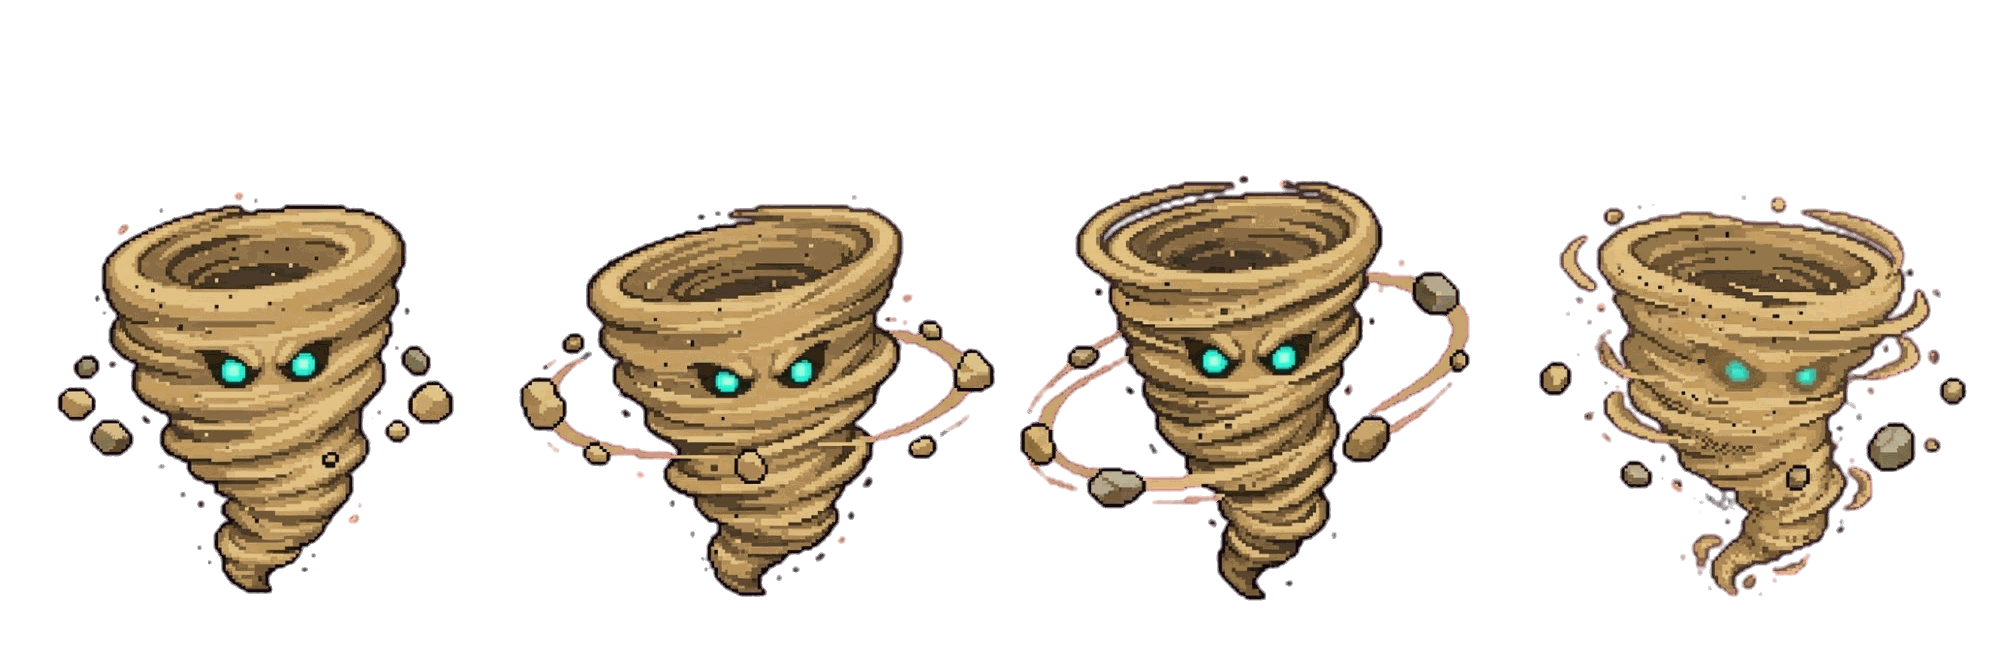
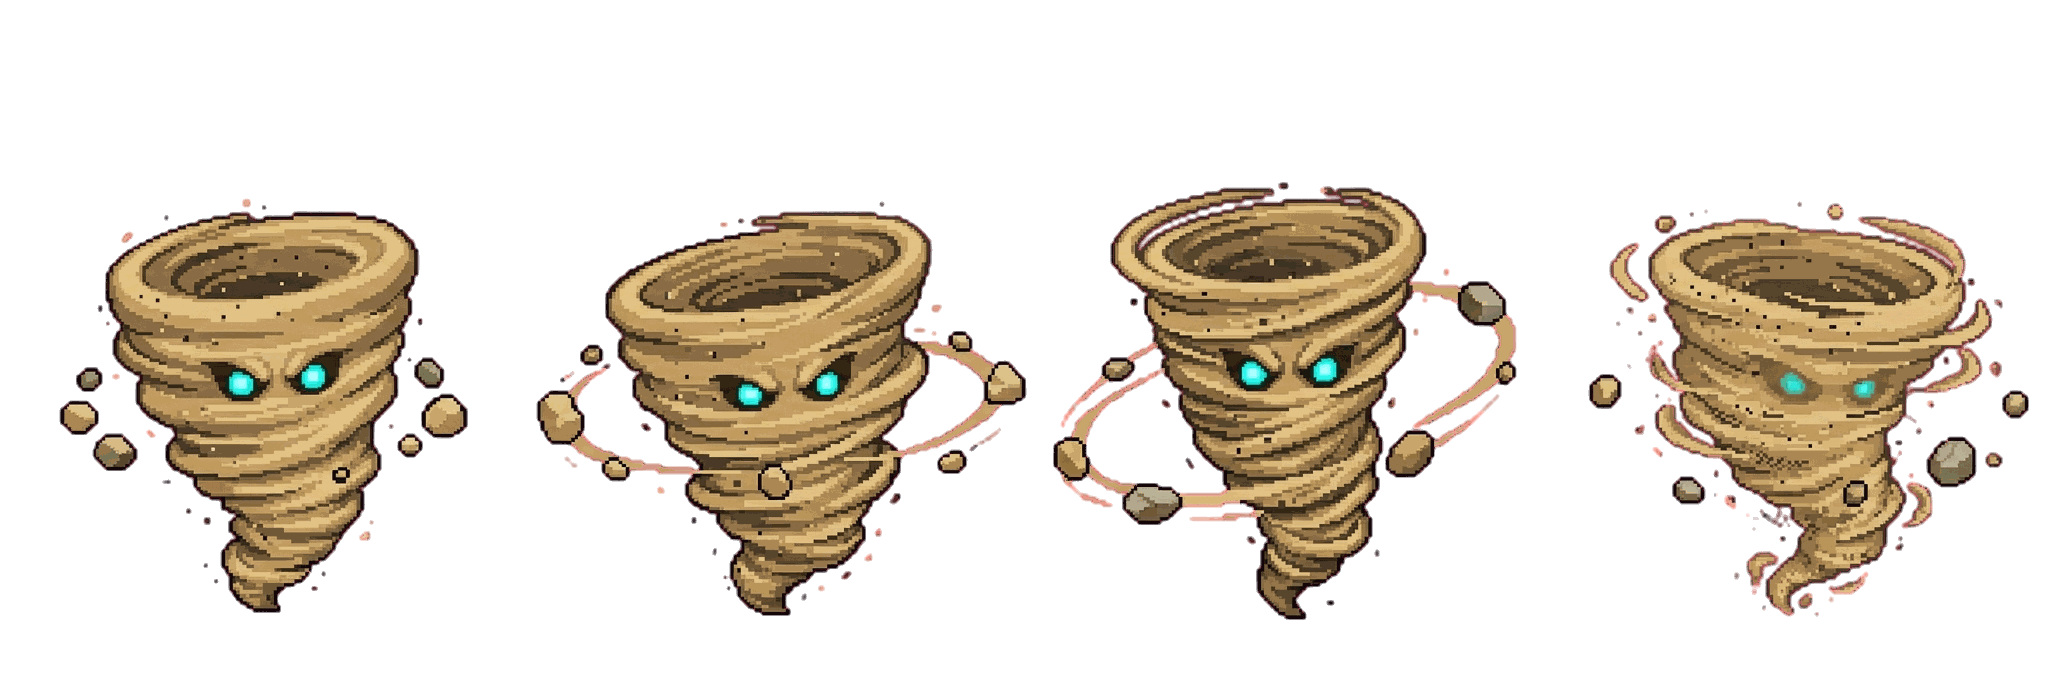
Round 195: own sprite sheets for the rest of the Solaris roster
Mirage Ibis, Dune Scorpion, the Cistern Warden and Noon Toller mini-bosses and the
Sun Pharaoh now use the owner's sheets. cut_sprite_sheet.py reads the magenta shade
from the border, despills only magenta-ish pixels and can drop a painted floor tile.

Claude-Session: https://claude.ai/code/session_01XB2RMCaJ1aVVtBjSNk3FhS

diff --git a/assets/elaris-wildlife.js b/assets/elaris-wildlife.js
@@ -2,17 +2,15 @@
 // Four-frame generated wildlife sheets. Elements are part of each species' identity.
 const ELARIS_WILDLIFE={
  // Round 172: Solaris is a sun-scorched brass desert city, so its creatures were renamed and
- // reworked to match. Ids stay the same so saves carry over. Until the owner's Solaris art
- // lands they still use the old sheets; the planned files are listed in ELARIS-ART.md.
+ // reworked to match. Ids stay the same so saves carry over. Rounds 193-195 gave them the owner's
+ // own sheets (see ELARIS-ART.md).
  cinderFox:{name:'Solar Scarab',icon:'☼',hp:38,attack:7,element:'fire',sheet:'solar-scarab',cycle:'.95s'},
- drownedHeron:{name:'Mirage Ibis',icon:'≈',hp:55,attack:9,element:'water',sheet:'drowned-heron',cycle:'1.4s'},
- blightAntler:{name:'Dune Scorpion',icon:'◆',hp:44,attack:8,element:'earth',sheet:'blight-antler',cycle:'1.2s'},
+ drownedHeron:{name:'Mirage Ibis',icon:'≈',hp:55,attack:9,element:'water',sheet:'mirage-ibis',cycle:'1.4s'},
+ blightAntler:{name:'Dune Scorpion',icon:'◆',hp:44,attack:8,element:'earth',sheet:'dune-scorpion',cycle:'1.2s'},
  stormMoth:{name:'Dust Devil',icon:'≋',hp:52,attack:9,element:'air',sheet:'dust-devil',cycle:'.7s'},
- // Round 22 mini-bosses: reuse an existing species' sprite sheet under a
- // new id/name/boss-tier stat block — same "new identity, borrowed art"
- // pattern as the city's crownSentinel.
- tidewardenElaris:{name:'The Cistern Warden',icon:'≈',hp:70,attack:11,armor:3,element:'water',sheet:'drowned-heron',cycle:'1.4s',boss:true,miniBoss:true},
- galeSovereign:{name:'The Noon Toller',icon:'🔔',hp:66,attack:11,armor:3,element:'air',sheet:'storm-moth',cycle:'.7s',boss:true,miniBoss:true}
+ // Round 22 mini-bosses (own sheets since Round 195).
+ tidewardenElaris:{name:'The Cistern Warden',icon:'≈',hp:70,attack:11,armor:3,element:'water',sheet:'cistern-warden',cycle:'1.4s',boss:true,miniBoss:true},
+ galeSovereign:{name:'The Noon Toller',icon:'🔔',hp:66,attack:11,armor:3,element:'air',sheet:'noon-toller',cycle:'1.2s',boss:true,miniBoss:true}
 };
 Object.assign(enemies,ELARIS_WILDLIFE);
 // Round 172: art-only keys for the old forest sheets. Vespera and Chronospire recolor these,

diff --git a/assets/encounter-depth.js b/assets/encounter-depth.js
@@ -6,8 +6,9 @@ addCard('stormglass','Stormglass Covenant',1,'Soulbound Lightning','ϟ',{damage:
 const depthRules=rules;
 rules=function(c){return depthRules(c)+(stat(c).shock?' Disrupt: halve the next enemy attack.':'')};
 const depthMonsterArt=monsterArt;
-// forestTyrant is the same sheet as an art-only key (Vespera and Chronospire bosses borrow it).
-monsterArt=function(id){return id==='bloomTyrant'||id==='forestTyrant'?'<span class="monster-sprite wildlife-sprite bloom-tyrant" role="img" aria-label="'+(id==='bloomTyrant'?enemies.bloomTyrant.name:'The Bloom Tyrant')+'" style="background-image:url(assets/monsters/elaris/bloom-tyrant.png);--wildlife-cycle:1.8s"></span>':depthMonsterArt(id)};
+// forestTyrant is the old Bloom Tyrant sheet as an art-only key (Vespera and Chronospire bosses
+// borrow it); the Sun Pharaoh has its own sheet since Round 195.
+monsterArt=function(id){return id==='bloomTyrant'||id==='forestTyrant'?'<span class="monster-sprite wildlife-sprite bloom-tyrant" role="img" aria-label="'+(id==='bloomTyrant'?enemies.bloomTyrant.name:'The Bloom Tyrant')+'" style="background-image:url(assets/monsters/elaris/'+(id==='bloomTyrant'?'sun-pharaoh':'bloom-tyrant')+'.png);--wildlife-cycle:1.8s"></span>':depthMonsterArt(id)};
 // Round 22 gave every boss an element (for the telegraphed elemental
 // strike + status effect), but all 4 mini-bosses still shared the exact
 // same 4-turn attack/charge/elemental/guard template, differing only in

diff --git a/index.html b/index.html
@@ -546,10 +546,10 @@ if(localStorage.getItem(SAVE_KEY))$('resumeBtn').classList.remove('hidden');
 addEventListener('resize',()=>{fitWorld();fitMap();renderTalentConnectors()});fitWorld();
 requestAnimationFrame(loop);
 </script>
-<script src="assets/elaris-wildlife.js?v=round194"></script>
+<script src="assets/elaris-wildlife.js?v=round195"></script>
 <script src="assets/solaris-data.js?v=round192"></script>
 <script src="assets/expansion.js?v=round185"></script>
-<script src="assets/encounter-depth.js?v=round185"></script>
+<script src="assets/encounter-depth.js?v=round195"></script>
 <script src="assets/talent-matrix.js?v=round185"></script>
 <script src="assets/aether-deck.js?v=round185"></script>
 <script src="assets/card-variety.js?v=round185"></script>

diff --git a/tools/cut_sprite_sheet.py b/tools/cut_sprite_sheet.py
@@ -6,20 +6,25 @@ background can't be keyed by colour alone. This keeps the creature (coloured or 
 drops specks, fills holes (so bright glows like the scarab's sun-ball stay solid), feathers the
 edge by about a pixel and saves a 256-colour PNG.
 
-    python3 tools/cut_sprite_sheet.py in.webp assets/monsters/elaris/solar-scarab.png [saturation]
+    python3 tools/cut_sprite_sheet.py in.webp assets/monsters/elaris/solar-scarab.png [saturation] [--no-floor]
 
 Lower the saturation (default 28) for pale creatures whose body would otherwise be cut away.
 
-Sheets drawn on a flat magenta (#ff00ff) background are chroma-keyed instead, and each frame is
+Sheets drawn on a flat magenta background (any shade; the colour is read from the border) are
+chroma-keyed instead, and each frame is
 padded to the game's 3:4 frame (bottom-aligned) when the sheet is shorter than that.
+--no-floor drops a painted stone floor under the creature's feet: in the bottom sixth of the
+sheet, cool (blue-grey) pixels go, warm ones (brass, sand, dust) stay.
 """
 import sys
 import numpy as np
 from PIL import Image
 from scipy import ndimage as nd
 
-src, out = sys.argv[1], sys.argv[2]
-SAT = int(sys.argv[3]) if len(sys.argv) > 3 else 28
+args = [a for a in sys.argv[1:] if not a.startswith('--')]
+src, out = args[0], args[1]
+SAT = int(args[2]) if len(args) > 2 else 28
+NO_FLOOR = '--no-floor' in sys.argv
 im = np.array(Image.open(src).convert('RGBA')).astype(float)
 a = im[..., 3:] / 255
 rgb = im[..., :3] * a + 255 * (1 - a)
@@ -40,23 +45,33 @@ def save(rgb, alpha):
 
 
 key = np.minimum(rgb[..., 0], rgb[..., 2]) - rgb[..., 1]
-if np.median(key[:8]) > 200:  # flat magenta background
-    alpha = np.clip((190 - key) / 150, 0, 1)
+border = np.concatenate([rgb[:6].reshape(-1, 3), rgb[-6:].reshape(-1, 3), rgb[:, :6].reshape(-1, 3), rgb[:, -6:].reshape(-1, 3)])
+bgc = np.median(border, 0); kb = bgc[[0, 2]].min() - bgc[1]
+if kb > 100:  # flat magenta (or purple-magenta) background, read from the border
+    alpha = np.clip((kb * 0.76 - key) / (kb * 0.6), 0, 1)
     alpha[alpha < 0.12] = 0
-    bgc = np.array([252, 0, 250.0])
     col = (rgb - (1 - alpha[..., None]) * bgc) / np.maximum(alpha, 1e-3)[..., None]
     col[..., 1] = np.maximum(col[..., 1], 0)
     col = col.clip(0, 255)
-    # Despill: JPEG blur mixes magenta into edges and outlines, which shows as pink. Nothing in
-    # these sheets has red far above green or blue above green, so cap both.
-    col[..., 0] = np.minimum(col[..., 0], col[..., 1] * 1.3 + 12)
-    col[..., 2] = np.minimum(col[..., 2], col[..., 1] * 0.85 + 8)
+    if NO_FLOOR:
+        h = alpha.shape[0]; zone = np.zeros_like(alpha, bool); zone[int(h * 0.82):] = True
+        alpha[zone & ((col[..., 2] >= col[..., 0] - 6) | (key > 40))] = 0
+    # Despill: JPEG blur mixes magenta into edges and outlines, which shows as pink. Pull blue
+    # down on magenta-ish pixels (red and blue both above green), and red too near the edge, so
+    # gold, orange, blue and white are left alone.
+    pinkish = (col[..., 0] > col[..., 1] + 10) & (col[..., 2] > col[..., 1] * 0.8)
+    edge = nd.binary_dilation(alpha == 0, iterations=3)
+    col[..., 2] = np.where(pinkish, np.minimum(col[..., 2], col[..., 1] * 0.85 + 8), col[..., 2])
+    col[..., 0] = np.where(pinkish & edge, np.minimum(col[..., 0], col[..., 1] * 1.3 + 12), col[..., 0])
     # Soft pixels (thin dust rings, edges) take the colour of the nearest solid pixel, which
     # removes the pink cast that unmixing leaves on them.
     solid = alpha >= 0.95
     _, (iy, ix) = nd.distance_transform_edt(~solid, return_indices=True)
     soft = (alpha > 0) & ~solid
     col[soft] = col[iy[soft], ix[soft]]
+    # Drop specks left behind (by the floor cut, or JPEG noise).
+    lab, n = nd.label(alpha > 0); sizes = nd.sum(alpha > 0, lab, range(1, n + 1))
+    alpha[np.isin(lab, [i + 1 for i, s in enumerate(sizes) if s < 12])] = 0
     col[alpha == 0] = 0
     save(col, alpha); sys.exit()
 

diff --git a/ELARIS-ART.md b/ELARIS-ART.md
@@ -3,23 +3,24 @@
 ## Solaris roster and planned art (Round 172)
 
 World 2 is Solaris, a sun-scorched brass desert city. Its enemies were renamed and reworked
-in Round 172. They still use the old forest sheets below until the new art arrives. Drop each
+in Round 172. Since Rounds 193-195 every one of them has the owner's own sheet. Drop each
 new sheet into `assets/monsters/elaris/` under the planned name, in the same 4-frame format as
 the forest sheets: one row, four equal cells, transparent background, facing right. The ids
 stay the same, so saves carry over. Generated sheets usually come on a fake checkerboard; cut them
-out with `python3 tools/cut_sprite_sheet.py <in> assets/monsters/elaris/<name>.png`, then point
+out with `python3 tools/cut_sprite_sheet.py <in> assets/monsters/elaris/<name>.png` (add
+`--no-floor` when the creature stands on a painted floor tile), then point
 the species' `sheet` in `assets/elaris-wildlife.js` at the new name.
 
-| Id | New enemy | Element | What it is | Planned sheet |
+| Id | New enemy | Element | What it is | Sheet |
 |---|---|---|---|---|
 | `cinderFox` | Solar Scarab | Fire | Brass beetle that rolls a ball of captured sunlight; Barrage | `solar-scarab.png` (in, Round 193) |
-| `drownedHeron` | Mirage Ibis | Water | Sacred ibis with a shimmering heat-haze body that drinks your strength; Siphon | `mirage-ibis.png` |
-| `blightAntler` | Dune Scorpion | Earth | Sand-armored scorpion with a copper stinger; Enfeeble | `dune-scorpion.png` |
-| `stormMoth` | Dust Devil | Air | Whirling sand spirit with glowing eyes; Mind Fog | `dust-devil.png` (in, Round 193) |
+| `drownedHeron` | Mirage Ibis | Water | Sacred ibis with a shimmering heat-haze body that drinks your strength; Siphon | `mirage-ibis.png` (in, Round 195) |
+| `blightAntler` | Dune Scorpion | Earth | Sand-armored scorpion with a copper stinger; Enfeeble | `dune-scorpion.png` (in, Round 195) |
+| `stormMoth` | Dust Devil | Air | Whirling sand spirit with glowing eyes; Mind Fog | `dust-devil.png` (in, Round 194) |
 | `sunRevenant` | Sunwrapped Revenant | Earth | Tech mummy (already has art); Entomb | `sun-revenant.png` |
-| `tidewardenElaris` | The Cistern Warden | Water | Brass golem guarding the Scrapwall cistern (mini-boss) | `cistern-warden.png` |
-| `galeSovereign` | The Noon Toller | Air | Bell-headed sentinel of the Temple of the Noon Bell (mini-boss) | `noon-toller.png` |
-| `bloomTyrant` | The Sun Pharaoh | Earth, shifts fire/earth | Crowned sun-king of the Solar Crown (final boss) | `sun-pharaoh.png` |
+| `tidewardenElaris` | The Cistern Warden | Water | Brass golem guarding the Scrapwall cistern (mini-boss) | `cistern-warden.png` (in, Round 195) |
+| `galeSovereign` | The Noon Toller | Air | Bell-headed sentinel of the Temple of the Noon Bell (mini-boss) | `noon-toller.png` (in, Round 195) |
+| `bloomTyrant` | The Sun Pharaoh | Earth, shifts fire/earth | Crowned sun-king of the Solar Crown (final boss) | `sun-pharaoh.png` (in, Round 195) |
 
 Vespera and Chronospire recolor the forest sheets through art-only keys (`forestFox`,
 `forestHeron`, `forestStag`, `forestMoth`, `forestTyrant`), so changing a Solaris sheet does

diff --git a/CHANGES.md b/CHANGES.md
@@ -3496,6 +3496,38 @@ Playtest of Neon Aftermath's three relics (Moon Lens 5,4; Ember Sigil 5,7; Briar
 - Talent descriptions list the per-rank values. Tests updated: round76, chronospire,
   talent-matrix, card-variety, plating-armor.
 
+## Round 195: the rest of the Solaris roster gets its own art
+
+Every Solaris enemy now has the owner's own sheet; none borrow forest art any more.
+
+- **New sheets** in `assets/monsters/elaris/`, cut from the owner's magenta-background sheets
+  with `tools/cut_sprite_sheet.py`:
+  - `mirage-ibis.png`: the Mirage Ibis (`drownedHeron`), a Thoth-style ibis with an ankh staff
+    and a heat-haze shimmer.
+  - `dune-scorpion.png`: the Dune Scorpion (`blightAntler`), with a glowing copper stinger.
+  - `cistern-warden.png`: the Cistern Warden mini-boss (`tidewardenElaris`), a brass golem with
+    water sloshing in its tank.
+  - `noon-toller.png`: the Noon Toller mini-boss (`galeSovereign`), a bell-headed knight with a
+    hammer. Its cycle went from .7s (the moth's flutter) to 1.2s, to suit a heavy walk.
+  - `sun-pharaoh.png`: the Sun Pharaoh final boss (`bloomTyrant`), whose sun halo grows across
+    the frames. `encounter-depth.js` now gives it this sheet; `forestTyrant` keeps the old Bloom
+    Tyrant sheet for the Sky Isles, Elaris, Vespera and Chronospire bosses.
+  - `dust-devil.png` was re-cut from the owner's sharper copy of the same sheet.
+- **Tool changes:**
+  - The magenta key reads the background colour from the sheet's border, so purple-magenta
+    backgrounds (the ibis) work too.
+  - Despill only touches magenta-ish pixels (red and blue both above green). Gold, orange glows,
+    the Pharaoh's blue stripes and the golem's water keep their colour.
+  - `--no-floor` removes the painted stone floor tile the golem and the knight stood on: in the
+    bottom sixth of the sheet, cool and magenta pixels go, while brass, dust and sand stay.
+  - Specks under 12 pixels are dropped.
+  - All the magenta sheets were cut with the final version, so the tool reproduces every file.
+- The sheets are 2064x688 (four 516x688 frames) and 170 to 285 KB each.
+- Tests: `elaris-wildlife` checks all thirteen sheets and which species uses each (the forest
+  keys keep the old sheets); `solaris-roster` checks the Pharaoh's sheet; `rebalance` now expects
+  the mini-bosses' own sheets. `ELARIS-ART.md` marks every planned sheet as in. Cache tags for
+  `elaris-wildlife.js` and `encounter-depth.js` are now round195.
+
 ## Round 194: the Dust Devil gets its own sprite sheet
 
 - **New art.** The owner's 4-frame Dust Devil sheet (a sand tornado with glowing eyes and

diff --git a/CLAUDE.md b/CLAUDE.md
@@ -4,7 +4,7 @@ Aethercede is a browser card-battler/exploration game in vanilla JS with no
 build step. Open `index.html` directly. `compendium.html` is the card
 gallery; `arena.html` is a standalone prototype and is left untouched.
 
-**Read `CHANGES.md` first.** Every round of work (Round 1 to Round 194) is
+**Read `CHANGES.md` first.** Every round of work (Round 1 to Round 195) is
 logged there with its reasoning. Add a new `## Round N:` entry for each
 change set.
 
